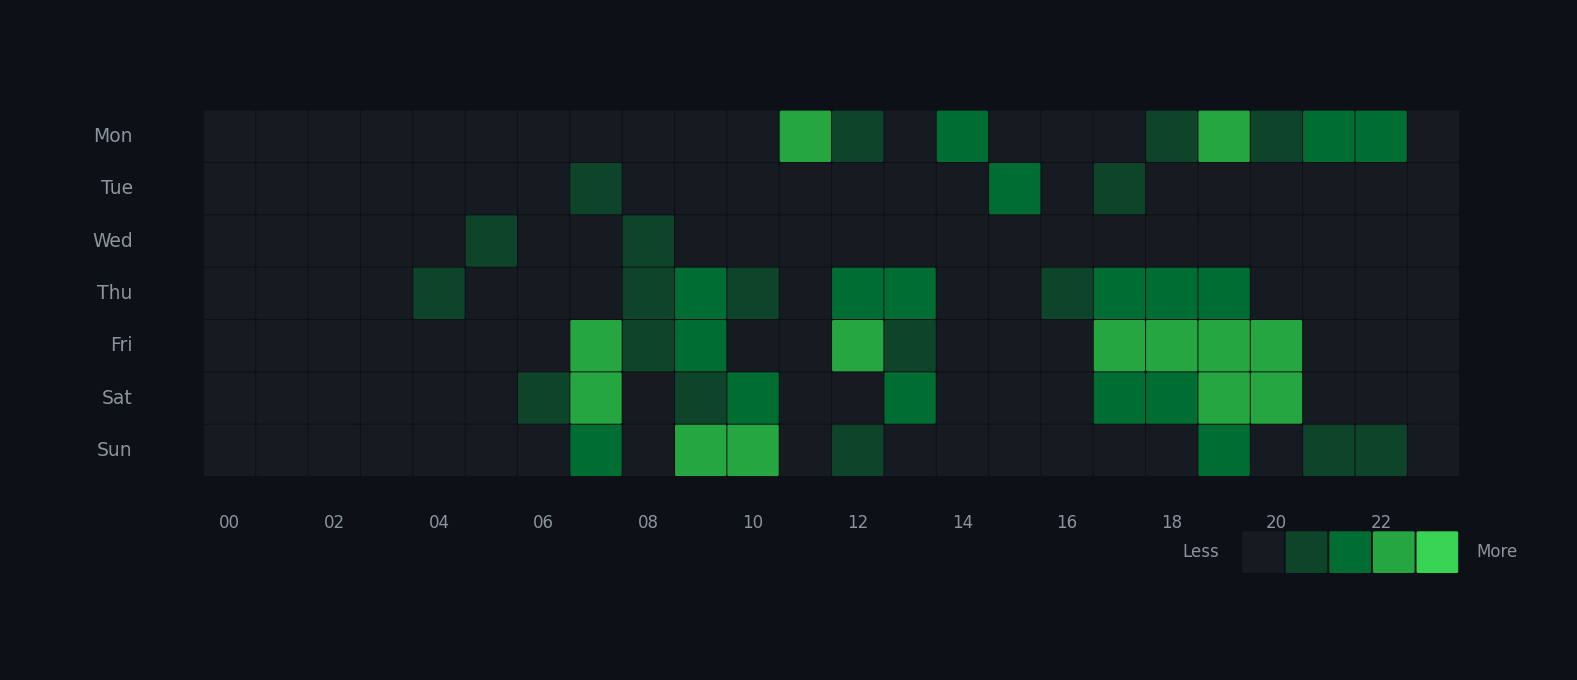
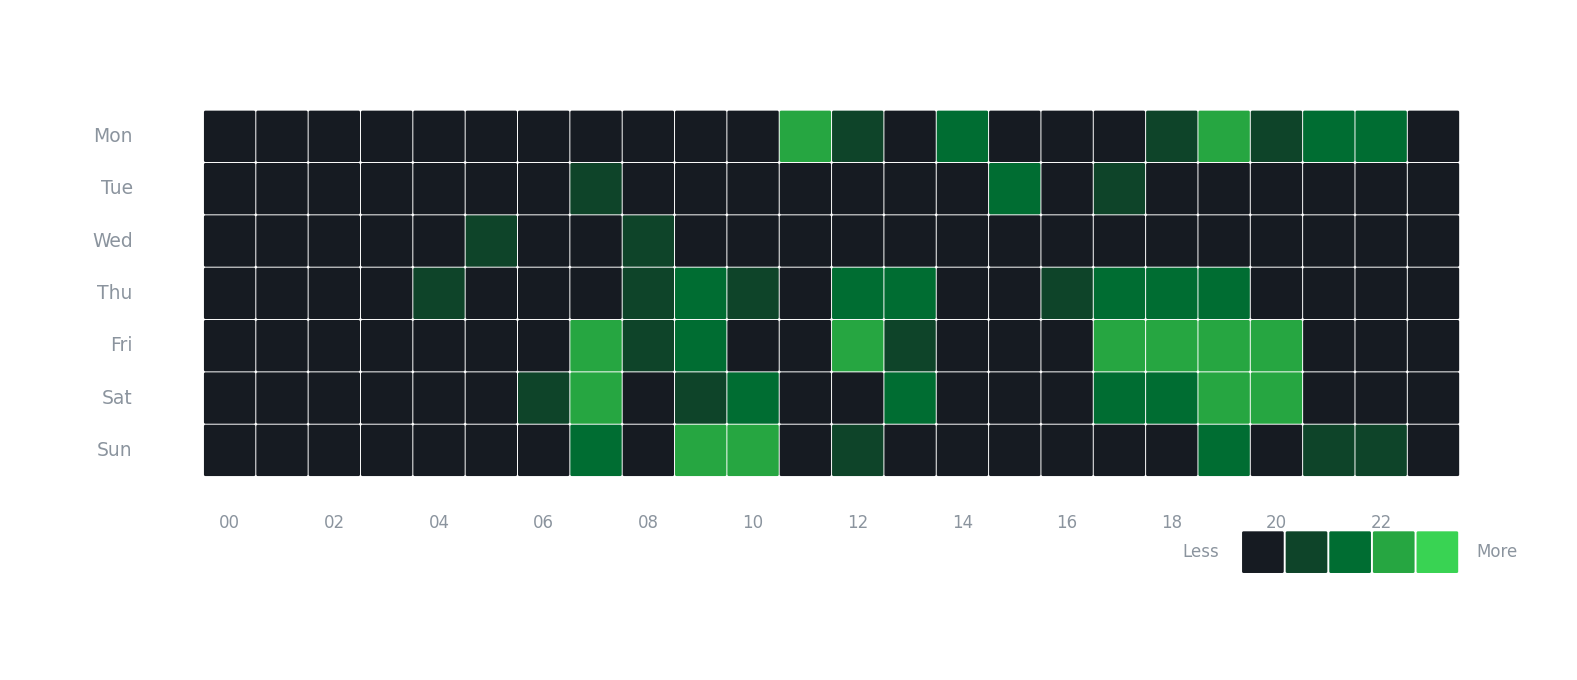
Transparent backgrounds on all charts, remove color dot from ranking
Generated with [Devin](https://devin.ai)

diff --git a/scripts/gen_repo_ranking.py b/scripts/gen_repo_ranking.py
@@ -110,11 +110,11 @@ def count_commits(username, repo_name, token=None):
 def render_ranking(repos_data, output_path, username):
     """Render the ranked list as a PNG image."""
     if not repos_data:
-        fig, ax = plt.subplots(figsize=(10, 4), facecolor=BG_COLOR)
+        fig, ax = plt.subplots(figsize=(10, 4), facecolor='none')
         ax.text(0.5, 0.5, 'No repo data available',
                 ha='center', va='center', color=TEXT_COLOR, fontsize=14)
         ax.axis('off')
-        fig.savefig(output_path, facecolor=BG_COLOR, dpi=150, bbox_inches='tight')
+        fig.savefig(output_path, facecolor='none', transparent=True, dpi=150, bbox_inches='tight')
         plt.close(fig)
         return
 
@@ -128,8 +128,8 @@ def render_ranking(repos_data, output_path, username):
     n = len(top)
     fig_width = 16
     fig_height = 1.2 + n * 0.85
-    fig, ax = plt.subplots(figsize=(fig_width, fig_height), facecolor=BG_COLOR)
-    ax.set_facecolor(BG_COLOR)
+    fig, ax = plt.subplots(figsize=(fig_width, fig_height), facecolor='none')
+    ax.set_facecolor('none')
 
     y_start = 0.96
     y_step = 1.0 / (n + 2)
@@ -140,19 +140,15 @@ def render_ranking(repos_data, output_path, username):
         # Alternating row background
         if i % 2 == 0:
             ax.axhspan(y - y_step * 0.45, y + y_step * 0.45,
-                       color=ROW_ALT_BG, zorder=0, alpha=0.5)
+                       color='#161b22', zorder=0, alpha=0.3)
 
         # Rank number
         rank_color = ACCENT_GOLD if i < 3 else TEXT_DIM
         ax.text(0.02, y, f'{i+1}', ha='left', va='center',
                 color=rank_color, fontsize=18, fontweight='bold', fontfamily='sans-serif')
 
-        # Language color dot
-        lang_color = LINGUIST_COLORS.get(repo.get('language'), DEFAULT_COLOR)
-        ax.plot(0.08, y, 'o', color=lang_color, markersize=11, zorder=5)
-
         # Repo name
-        ax.text(0.11, y, repo['name'], ha='left', va='center',
+        ax.text(0.08, y, repo['name'], ha='left', va='center',
                 color=TEXT_BRIGHT, fontsize=15, fontweight='bold', fontfamily='sans-serif',
                 clip_on=True)
 
@@ -171,7 +167,7 @@ def render_ranking(repos_data, output_path, username):
     ax.axis('off')
 
     plt.subplots_adjust(left=0.02, right=0.98, top=0.98, bottom=0.02)
-    fig.savefig(output_path, facecolor=BG_COLOR, dpi=150, bbox_inches='tight', pad_inches=0.3)
+    fig.savefig(output_path, facecolor='none', transparent=True, dpi=150, bbox_inches='tight', pad_inches=0.3)
     plt.close(fig)
     print(f'Repo ranking saved: {output_path}')
 

diff --git a/scripts/gen_language_treemap.py b/scripts/gen_language_treemap.py
@@ -210,11 +210,11 @@ def render_treemap(lang_totals, output_path, username):
     if not lang_totals:
         print('No language data to render!')
         # Create a placeholder image
-        fig, ax = plt.subplots(figsize=(10, 6), facecolor=BG_COLOR)
+        fig, ax = plt.subplots(figsize=(10, 6), facecolor='none')
         ax.text(0.5, 0.5, 'No language data available',
                 ha='center', va='center', color=TEXT_COLOR, fontsize=16)
         ax.axis('off')
-        fig.savefig(output_path, facecolor=BG_COLOR, dpi=150, bbox_inches='tight')
+        fig.savefig(output_path, facecolor='none', transparent=True, dpi=150, bbox_inches='tight')
         plt.close(fig)
         return
 
@@ -239,8 +239,8 @@ def render_treemap(lang_totals, output_path, username):
         return f'{pct:.1f}%' if pct >= 4 else ''
 
     # Create figure
-    fig, ax = plt.subplots(figsize=(11, 7), facecolor=BG_COLOR)
-    ax.set_facecolor(BG_COLOR)
+    fig, ax = plt.subplots(figsize=(11, 7), facecolor='none')
+    ax.set_facecolor('none')
 
     # Plot donut chart
     wedges, _texts, autotexts = ax.pie(
@@ -280,7 +280,7 @@ def render_treemap(lang_totals, output_path, username):
     )
 
     plt.subplots_adjust(left=0.02, right=0.68, top=0.96, bottom=0.04)
-    fig.savefig(output_path, facecolor=BG_COLOR, dpi=150, bbox_inches='tight', pad_inches=0.3)
+    fig.savefig(output_path, facecolor='none', transparent=True, dpi=150, bbox_inches='tight', pad_inches=0.3)
     plt.close(fig)
     print(f'Donut chart saved: {output_path}')
 

diff --git a/scripts/gen_activity_heatmap.py b/scripts/gen_activity_heatmap.py
@@ -110,8 +110,8 @@ def render_heatmap(events, output_path, username):
     norm = mcolors.BoundaryNorm(bounds, cmap.N)
 
     # Create figure
-    fig, ax = plt.subplots(figsize=(13, 4.5), facecolor=BG_COLOR)
-    ax.set_facecolor(BG_COLOR)
+    fig, ax = plt.subplots(figsize=(13, 4.5), facecolor='none')
+    ax.set_facecolor('none')
 
     # Draw cells with rounded corners and gaps
     cell_w = 1.0
@@ -126,7 +126,7 @@ def render_heatmap(events, output_path, username):
             count = grid[day, hour]
 
             if count == 0:
-                color = CELL_BG
+                color = '#161b22'
             else:
                 idx = min(4, int(np.searchsorted([0.5, bounds[2], bounds[3]], count)))
                 color = green_colors[idx]
@@ -174,7 +174,7 @@ def render_heatmap(events, output_path, username):
     ax.axis('off')
 
     plt.subplots_adjust(left=0.05, right=0.98, top=0.95, bottom=0.12)
-    fig.savefig(output_path, facecolor=BG_COLOR, dpi=150, bbox_inches='tight', pad_inches=0.4)
+    fig.savefig(output_path, facecolor='none', transparent=True, dpi=150, bbox_inches='tight', pad_inches=0.4)
     plt.close(fig)
     print(f'Activity heatmap saved: {output_path}')
 
